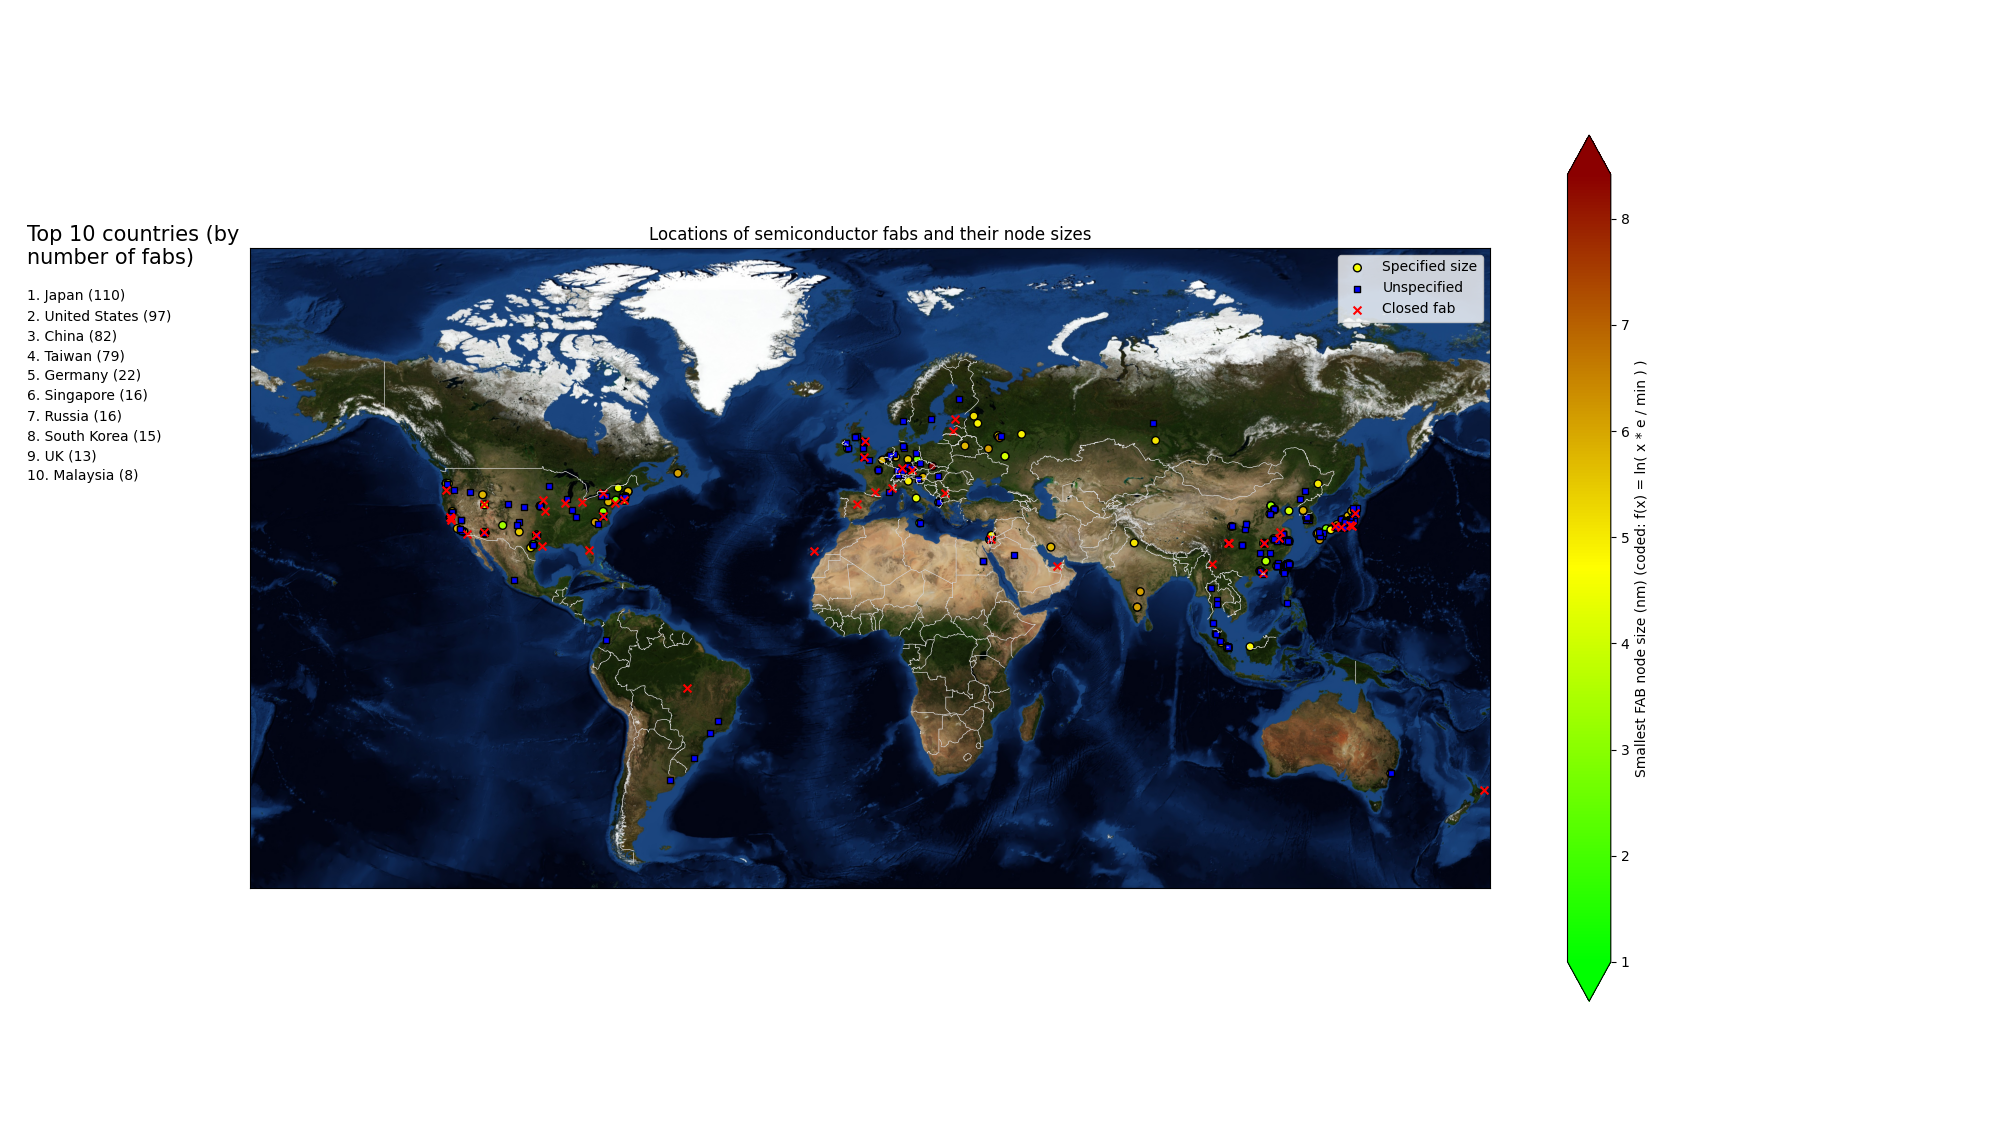
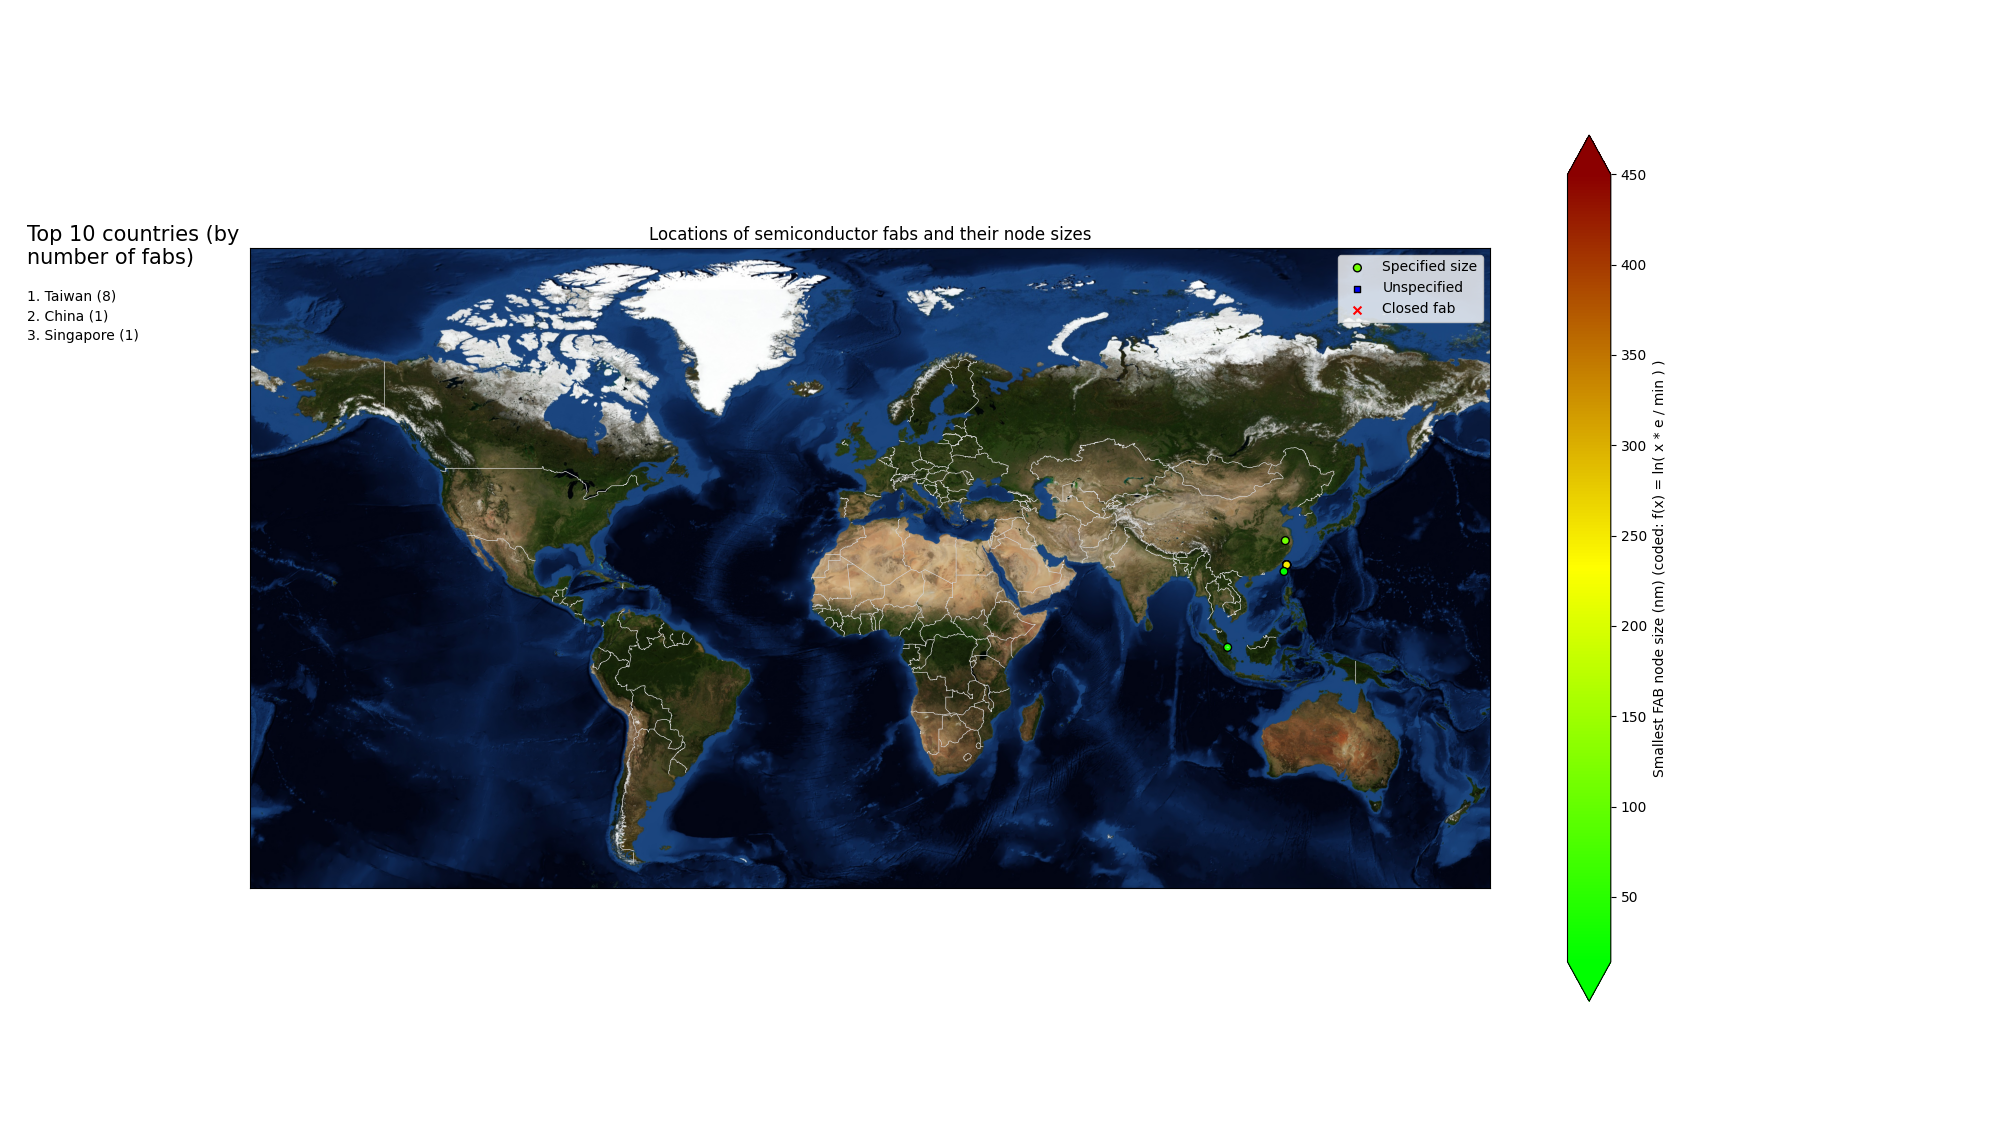
Added comments to and renamed the program1 to program.py for clarity

diff --git a/program.py b/program.py
@@ -2,11 +2,13 @@ from bs4 import BeautifulSoup as BS
 import requests
 from collections import Counter
 
+# This program is designed to locate all the fabs from the site: https://en.wikipedia.org/wiki/List_of_semiconductor_fabrication_plants
+# and display them on a map with their minimum node sizes (in nm) as the colour dimension
 
-# Import the required library
+# Import the required library - need to use this to convert names into coordinates
 from geopy.geocoders import Nominatim
 
-# Initialize Nominatim API
+# Initialise Nominatim API
 geolocator = Nominatim(user_agent="MyApp")
 
 
@@ -27,31 +29,41 @@ url = "https://en.wikipedia.org/wiki/List_of_semiconductor_fabrication_plants"
 
 text = requests.get(url=url, headers=headers,params=params).text
 
+# Parses the page so we can find the important info we need
 page = BS(text, "html.parser")
 
 opensemifabs_table = page.find("table" , {"id" : "opensemifabs"})
 closedsemifabs_table = page.find("table" , {"id" : "closedsemifabs"})
 
-opensemifabs =  opensemifabs_table.find_all("tr")[1:]
-closedsemifabs =  closedsemifabs_table.find_all("tr")[1:]
+# Gets all the individual rows of the table, with each row being a fab
+opensemifabs =  opensemifabs_table.find_all("tr")[1:][0:10]
+closedsemifabs = [] # closedsemifabs_table.find_all("tr")[1:]
 
+# This function filters out all the numbers of a string and returns the list containing these numbers
+# Needed so we can get the list of node sizes for each fab (and then use min() to select the minimum node size)
 def get_numbers_only(string):
     allowed = ["0","1","2","3","4","5","6","7","8","9"]
     
+    # This is where we'll store the numbers
     numlist = []
     
+    # We build a string from each character that is a digit, add to the string and then add to the list
+    # When a non-digit is detected, we add the number to numlist and clear this 
     current_str = ""
     
     for char in string:
         
+        # Building the number, digit by digit (or char by char)  
         if char in allowed:
             current_str += char
             
         else:
+            # When we find a non-digit, do above
             if current_str:
                 numlist.append(int( current_str ) )
                 current_str = ""
                 
+    # Don't forget to add the last string because otherwise you may forget to add the last number
     if current_str:
         numlist.append(current_str)
     
@@ -60,6 +72,7 @@ def get_numbers_only(string):
 # Function which given a name, uses nominatim, a very generous service to find its coordinates automatically and returns latitude-longitude pairs
 def get_coords(address): 
     
+    # Using nominatim to get the latitude,longitude
     try:
         loc = geolocator.geocode(address)
         return (loc.latitude, loc.longitude)
@@ -67,23 +80,27 @@ def get_coords(address):
         return None
     
     
-
+# Sanitisation to kill all leading spaces of a string
 def removeleadingspaces(string):
+    # Keeps track of the indices 
     i=0
 
     for char in string:
         
         if char == " ":
+            # This counts the number of leading spaces so we know from which point in the string to cut it at
             i+=1
         else:
             break
         
     return string[i:]
 
+# Same as above but removes all the wikipedia references (e.g Haikou, China[3] <- removes the [3])
+# These are always located at the end of the string, so we cut at the end
 def removefollowingrefs(string):
     
     i=0
-    
+
     for char in string:
         if char != "[":
             i+=1
@@ -92,70 +109,92 @@ def removefollowingrefs(string):
         
     return string[0:i]
     
+# Combines the above 2 functions together
+# Used on place names so that when we input the data into Nominatim to get the coordinates it doesn't get confused by the formatting, since we've removed it
 def sanitisestring(string,num):
     return removefollowingrefs(
         
         removeleadingspaces( 
-                            
+                                                            # The wikipedia place names are in the form [Country, Region, Place] so we need to select which one
+                                                            # Do this with the num argument
                             string.replace("\n","").split(",")[num] ))
     
-    
+# This counter counts the number of fabs that each country has
 country_counter = Counter({})
+
+# These 2 lists are IMPLICITLY linked - for some index i, then locations[i], specified_node_sizes[i] refer to the same entry
+# Need to preserve the order
+# The locations list is used to locate them on the map, the node size gives each location its colour
 locations = []
 specified_node_sizes = []
+
+# Since there's no node size data for some locations I have put them separately
 unspecified_node_locations = []
+
+# There is node data for closed locations but I thought that'd be overcomplicating it, so just locations would suffice for these, only 46 of them anyway
 closed_locations = []
 
 for fab in opensemifabs:
+    # Get all of the properties of this specific fab
     fields = fab.find_all("td")
     
-
-    location_data = sanitisestring( fields[2].text, -1 )
+    # Get the location name - the third column in the wikipedia table is the location, so apply the sanitise function to get the location
+    # This location name will then be passed to nominatim so we can get its coordinates to put on the map
+    location_name = sanitisestring( fields[2].text, -1 )
+    
+    # The process technology node data is the 7th column, so get it by fields[6]
     process_technology_data = fields[6].text
 
-
-    location = get_coords(location_data)
+    # Use the nominatim function to get the coordinates
+    location = get_coords(location_name)
     
+    # Get the country name - the country name will always be the first part of the "location" column (it's always Country, Region, City)
     country_data = sanitisestring(fields[2].text, 0)
+    
+    # Check that it actually says what the country is - some fields will have no location data whatsoever
     if country_data:
         country_counter.update({country_data : 1})
     
+    # Get the list of node sizes as a list of numbers, then pick the smallest
     node_sizes = get_numbers_only(process_technology_data)
     
+    # Some fabs will not have any node sizes listed, so if this is the case then just make it None, 
+    # otherwise select the MINIMUM node size for the sake of comparison
     smallest_wafer_size = min(node_sizes) if node_sizes else None
 
+    # Selecting which list to add the location to depending on if we have both attributes listed or not
     if location and smallest_wafer_size:
         locations.append(location)
         specified_node_sizes.append(smallest_wafer_size)
     elif location:
         unspecified_node_locations.append(location)
     
-        
+# Identical to above but without checking for node sizes, go and see the above for explanation   
 for fab in closedsemifabs:
     fields = fab.find_all("td")
     
 
-    location_data = sanitisestring( fields[2].text, -1 )
+    location_name = sanitisestring( fields[2].text, -1 )
     
     country_data = fields[2].text.split(",")[0]
     if country_data:
         country_counter.update({country_data : 1})
     
-    location = get_coords(location_data)
-    
-    print("closed fab:" , location)
+    location = get_coords(location_name)
     
     if location:
         closed_locations.append(location)
         
 
-
+# It's plotting time (rubs hands together)
 
 from mpl_toolkits.basemap import Basemap
 from matplotlib import pyplot as plt
 import matplotlib.colors as mcolors
 import numpy as np
 
+# This minimum will be used in the coding process
+# Since there's such huge variation in node sizes, from 5000nm to 11nm, need to use a logarithmic code
 minimum = min(specified_node_sizes)
 
 
@@ -164,24 +203,28 @@ minimum = min(specified_node_sizes)
 # I borrowed this palette from the development mapmode on EU4 
 my_cmap=mcolors.LinearSegmentedColormap.from_list('rg',["darkred", "yellow", "lime"], N=256).reversed()
 
+# Turn into an np array so it's hopefully faster to load on the map and turn into map x-y coordinates
 latitudes_specified = np.asarray([x[0] for x in locations])
 longitudes_specified = np.asarray( [x[1] for x in locations] )
+# Need to code the data, apply logarithmic scale (such that the minimum = 1)
 specified_node_sizes = np.log( np.asarray(specified_node_sizes) * np.e / minimum )
 
+# Again get the latitudes and longitudes into aan np array
 latitudes_unspecified = np.asarray([x[0] for x in unspecified_node_locations])
 longitudes_unspecified = np.asarray([x[1] for x in unspecified_node_locations])
 
+# Ditto but for closed fabs
 latitudes_closed = np.asarray([x[0] for x in closed_locations])
 longitudes_closed = np.asarray([x[1] for x in closed_locations])
 
+# If I tried to use -90,90 on latitude, it gave me some strange dimensions, so I had to manually adjust them
 lat_min = -60
 lat_max = 85
 lon_min = -180
 lon_max = 180
 
+# 1 pixel = 1/96 of an inch
 px=1/96
-
-
 
 the_map = Basemap(llcrnrlon=lon_min, 
                   llcrnrlat=lat_min,
@@ -189,25 +232,22 @@ the_map = Basemap(llcrnrlon=lon_min,
                   urcrnrlat=lat_max, 
                   resolution="l", projection="mill")
 
-
-
-# the_map.drawcoastlines()
-# the_map.fillcontinents(color="white", lake_color="#7FCDFF")
+# I only drew the borders, the rest would be dealt with by calling bluemarble()
 the_map.drawcountries(color="#D3D3D3")
-# the_map.drawmapboundary(fill_color="#7FCDFF")
 
+# Converting the lists of latitudes and longitudes into x-y coordinates on the map
 longitudes_specified, latitudes_specified = the_map(longitudes_specified, latitudes_specified)
 longitudes_unspecified, latitudes_unspecified = the_map(longitudes_unspecified, latitudes_unspecified)
 longitudes_closed, latitudes_closed = the_map(longitudes_closed, latitudes_closed)
 
-
-
+# Get the current figure and axes - these are only implicitly generated by a Basemap instance, 
+# so need to call them explicitly
 fig = plt.gcf()
 ax = plt.gca()
 
+# Again, this has to be done separately since most of the figure info is dealt with implicitly
 fig.set_figheight(1080*px)
 fig.set_figwidth(1920*px)
-
 
 the_scattering = the_map.scatter(longitudes_specified,latitudes_specified, s=32, edgecolor="black", marker="o", c=specified_node_sizes, cmap = my_cmap, label = "Specified size")
 unspecified_scattering = the_map.scatter(longitudes_unspecified, latitudes_unspecified, edgecolor="black", marker="s", s=16, c="blue", label = "Unspecified")
@@ -217,22 +257,31 @@ bar = plt.colorbar(mappable=the_scattering, extend="both", label="Smallest FAB n
 
 plt.title("Locations of semiconductor fabs and their node sizes")
 
-
-
-
-
+# I wasn't sure how many "top #" countries I wanted, so I made it variable
 n = 10
+# Once sorted (this long code just sorts the dict by its values rather than its items), only keep the top n 
+# values, discard everything after this point
 top_n = sorted(country_counter.items(), key=lambda x:x[1], reverse= True  )[0:n]
 
+# Magic numbers but I didn't know how to analytically determine the best separation distance between the
+# text and the axes, so manual adjustment / trial and error
 events_text = plt.text(-0.18,0.975, 
                        f"Top {n} countries (by\nnumber of fabs)", 
                        fontsize = 15,
                        transform=ax.transAxes )
+                        # transAxes makes the coordinates given relative to the axes, such that
+                        # 0 = the far left/bottom, and 1 = the far right/top
 
+# Sanity printing
 print("TOP N:" , top_n )
+
+# Recording all top n countries on the figure
 i = 1
 for country, number in top_n:
+    # Sanity checking print
     print(country, number)
+    # THis is the string that will show on the figure, 
+    # e.g 3. Taiwan (79)
     string = f"{i}. {country} ({number})"
     text = plt.text(-0.18,0.95 - i / 32, 
                        string,  
